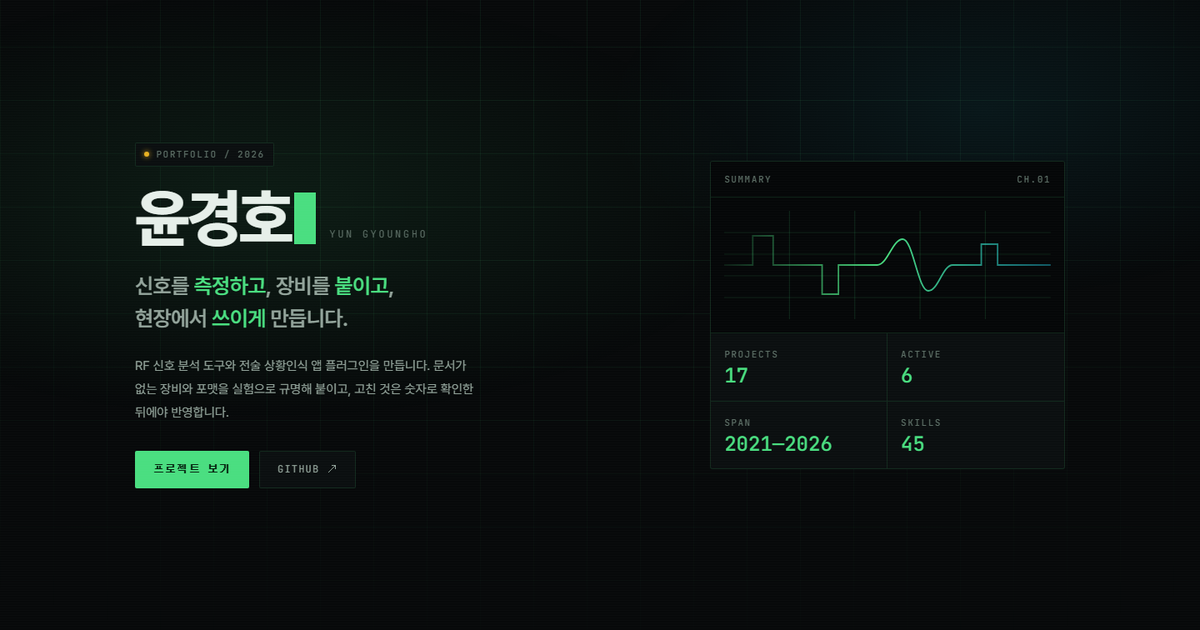
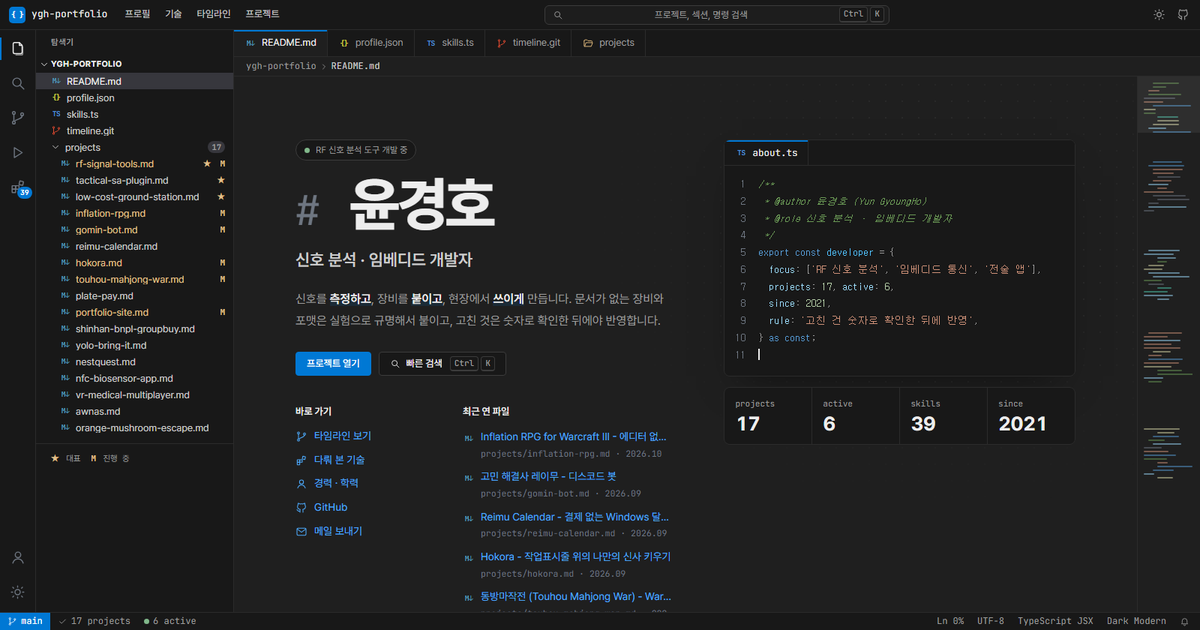
docs: 포트폴리오 프로젝트 소개와 화면 캡처를 새 디자인 기준으로 갱신
- 3번 프로젝트(포트폴리오) 설명 · 기능 · 문제와 해결 · 결과를 실제 구현 내용으로 다시 작성
- 캡처 3장 교체(첫 화면, 타임라인, 라이트 테마 상세), 구성도 문구와 색을 새 테마로
- 링크 미리보기 이미지(og.png)를 새 첫 화면으로 교체

diff --git a/src/data/projects.ts b/src/data/projects.ts
@@ -87,40 +87,43 @@ export const projects: Project[] = [
   {
     id: '3',
     title: '개인 포트폴리오 웹사이트',
-    summary: 'React와 TypeScript로 구현한 반응형 포트폴리오 사이트',
-    description: '현대적인 웹 기술을 활용하여 개인 포트폴리오를 제작했습니다. 반응형 디자인과 다양한 인터랙션을 구현하여 사용자 경험을 극대화했으며, 프로젝트 상세 페이지를 통해 체계적으로 작업물을 소개할 수 있도록 구성했습니다.',
-    technologies: ['React', 'TypeScript', 'CSS', 'React Router', 'Create React App'],
+    summary: '코드 에디터(VS Code) 작업 화면처럼 꾸민 React · TypeScript 포트폴리오',
+    description: '저장소를 열어 둔 코드 에디터처럼 보이는 포트폴리오입니다. 섹션은 파일로, 프로젝트는 projects 폴더 안 문서로 보여 주고 탐색기 · 편집기 탭 · 명령 팔레트 · 상태 표시줄로 이동합니다. 프로젝트 데이터 한 곳(projects.ts)에서 카드, 타임라인, 상세 페이지, 탐색기, 검색 목록을 모두 만들어서 프로젝트를 추가하면 화면 전체가 따라 바뀝니다.',
+    technologies: ['React', 'TypeScript', 'CSS', 'React Router', 'Create React App', 'View Transitions API', 'CSS 스크롤 타임라인', 'CSS 앵커 위치 지정', 'Container Queries'],
     category: 'web',
     context: 'personal',
     status: 'in-progress',
     startDate: '2025-08',
     teamSize: 1,
-    myRole: 'Full Stack Developer',
+    myRole: '기획 · 디자인 · 개발 (1인)',
     features: [
-      '반응형 웹 디자인',
-      '부드러운 스크롤 애니메이션',
-      '프로젝트 상세 페이지 라우팅',
-      '환경변수를 통한 개인정보 보호',
-      '스킬별 카테고리 분류 시스템'
+      'VS Code 모양 작업 화면: 탐색기, 편집기 탭, 이동 경로, 미니맵, 상태 표시줄',
+      '명령 팔레트(Ctrl+K): 프로젝트 이름 · 기술 · 분야로 검색해 바로 이동',
+      '다크 / 라이트 테마: 누른 자리에서 원이 퍼지며 바뀌는 화면 전환(View Transitions API)',
+      '목록 카드의 제목이 상세 페이지 제목으로 이어지는 화면 전환',
+      '스크롤 위치에 묶인 CSS 애니메이션: 진입 효과, 미니맵 슬라이더, 읽은 만큼 차는 막대, 상태 표시줄의 스크롤 %',
+      '타임라인 막대 요약을 CSS 앵커 위치 지정으로 막대에 붙이고, 화면 끝에서는 자동으로 뒤집기',
+      '화면 폭이 아니라 편집기 폭에 맞춰 배치를 바꾸는 컨테이너 쿼리',
+      '프로젝트 이미지는 폴더에 넣기만 하면 자동으로 모으고, 사진이 없으면 파형 커버를 생성'
     ],
     challenges: [
-      'SEO 최적화를 위한 라우팅 구조 설계',
-      '다양한 디바이스에서의 일관된 사용자 경험',
-      '성능 최적화와 사용자 인터랙션의 균형'
+      '목록과 상세를 오갈 때 보던 위치가 사라지는 문제',
+      '빌드 과정에서 CSS 선언이 정렬되며 animation 단축 속성이 animation-timeline 을 덮어써, 스크롤에 묶인 애니메이션이 모두 꺼지던 문제',
+      '최신 CSS 기능을 지원하지 않는 브라우저에서도 내용은 그대로 보여야 하는 점'
     ],
     solutions: [
-      'React Router를 활용한 SPA 라우팅 구현',
-      'CSS Grid와 Flexbox를 활용한 반응형 레이아웃',
-      '이미지 최적화 및 코드 스플리팅 적용'
+      '상세로 떠나기 직전 스크롤 위치를 기억해 두고, 돌아올 때 화면 전환이 새 화면을 찍기 전에 복원(useLayoutEffect)',
+      'animation 단축 속성 대신 개별 속성으로 적어 선언 순서와 상관없이 동작하게 하고, 빌드 결과물에서 실제로 남았는지 확인',
+      '최신 기능은 @supports 로 감싸고 기본 상태를 늘 보이게 두어, 지원하지 않으면 효과만 빠지게 구성'
     ],
     results: [
-      '포트폴리오 사이트 성공적 배포를 목표',
-      '모바일 호환성 100% 달성을 목표',
-      '사용자 친화적 UI/UX 구현을 목표'
+      'Netlify 로 배포 중 (19ygh.netlify.app), main 에 머지되면 자동 재배포',
+      '상세 주소로 바로 들어와도 열리도록 SPA 리다이렉트 설정',
+      '프로젝트 17개와 기술 39개를 데이터 파일 한 곳에서 관리'
     ],
     images: [],
     githubUrl: 'https://github.com/19GHYun/Portfolio',
-    reflection: '포트폴리오를 만들면서 CI/CD까지 목표로 삼고 진행해보고 있습니다.'
+    reflection: '처음에는 계측기 화면 콘셉트로 만들었다가, 개발자다운 모습을 보여 주려고 코드 에디터 콘셉트로 다시 만들었습니다. 새 CSS 기능은 지원하지 않는 브라우저에서 내용이 사라지지 않도록, 효과만 얹는 방식으로 썼습니다.'
   },
     {
     id: '4',
